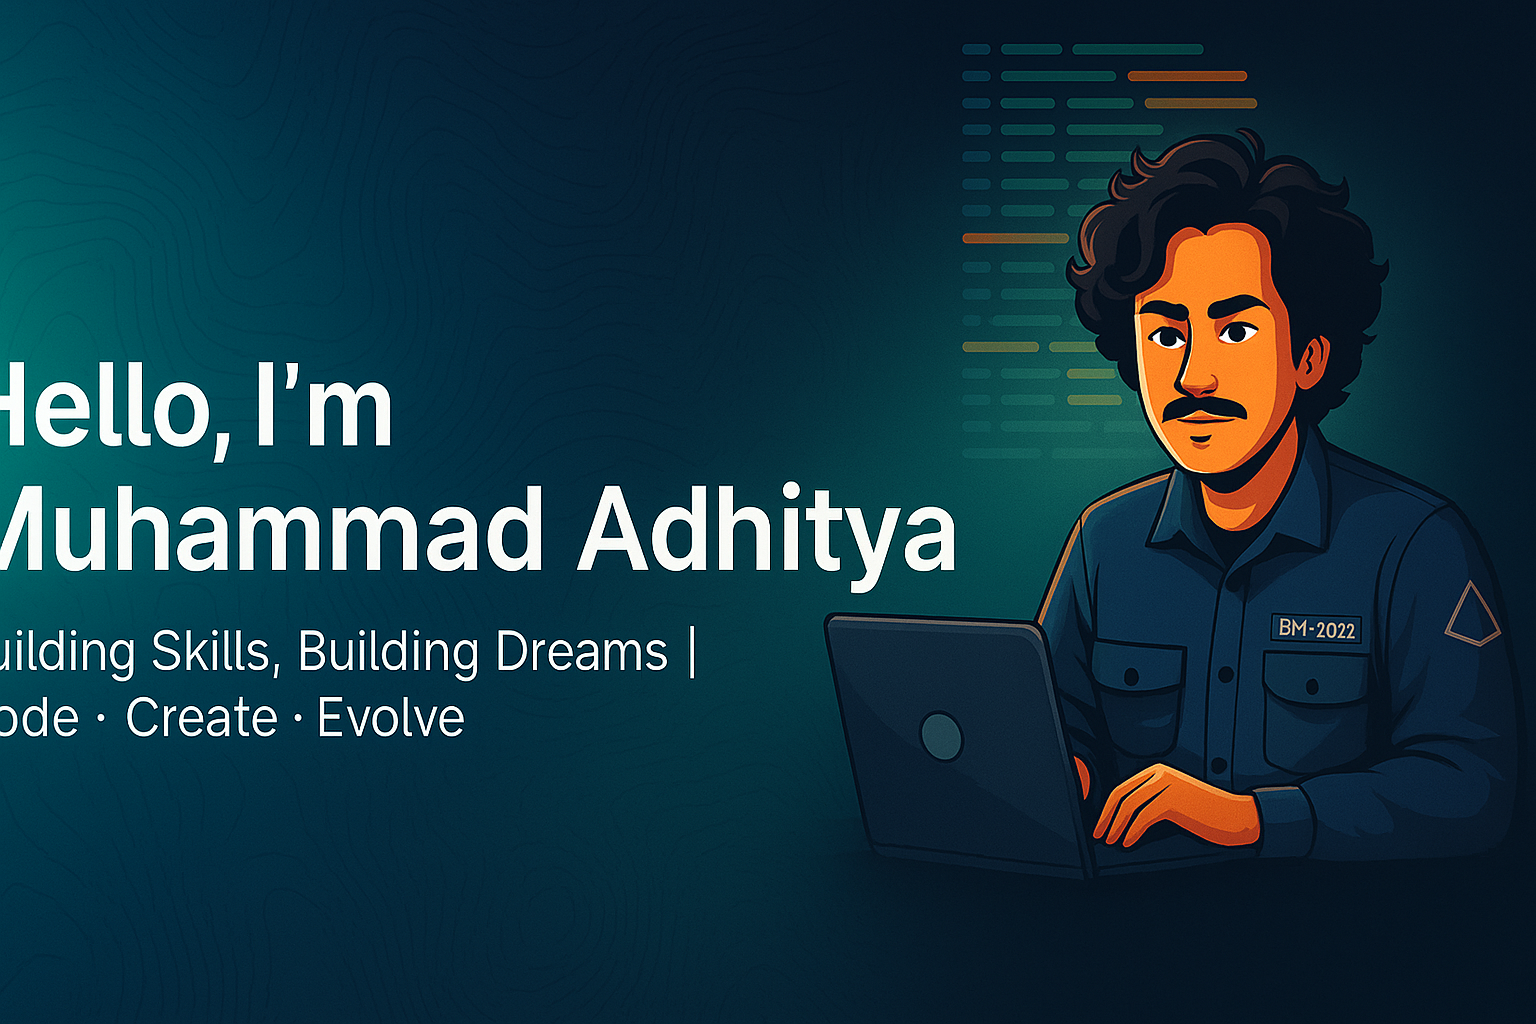
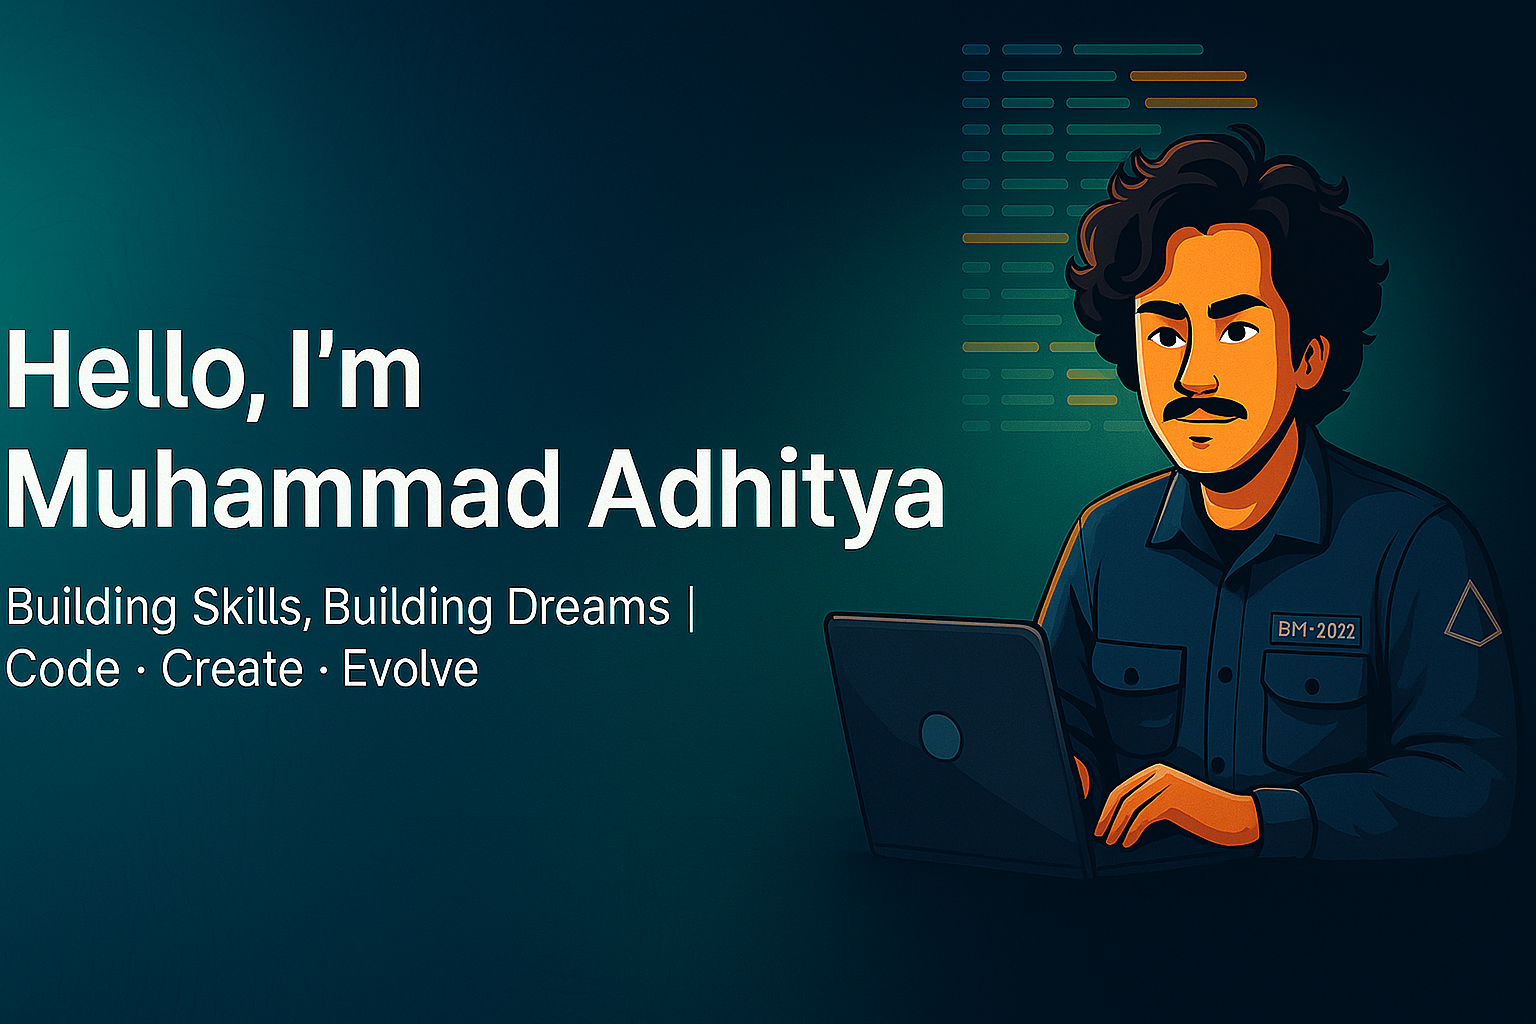
profile done 1

diff --git a/README.md b/README.md
@@ -1,6 +1,8 @@
 ## Welcome To My Github Profile 👋
 
 <img src="bg/bg.png" />
+<br>
+On a journey of continuous learning and growth — because code is never just code, it’s a story you write for the future.
 
 ### Skills
 <img src="https://img.shields.io/badge/HTML5-E34F26?style=for-the-badge&logo=html5&logoColor=white" /> <img src="https://img.shields.io/badge/CSS3-1572B6?style=for-the-badge&logo=css3&logoColor=white" /> <img src="https://img.shields.io/badge/JavaScript-323330?style=for-the-badge&logo=javascript&logoColor=F7DF1E" /> <img src="https://img.shields.io/badge/PHP-777BB4?style=for-the-badge&logo=php&logoColor=white" />
